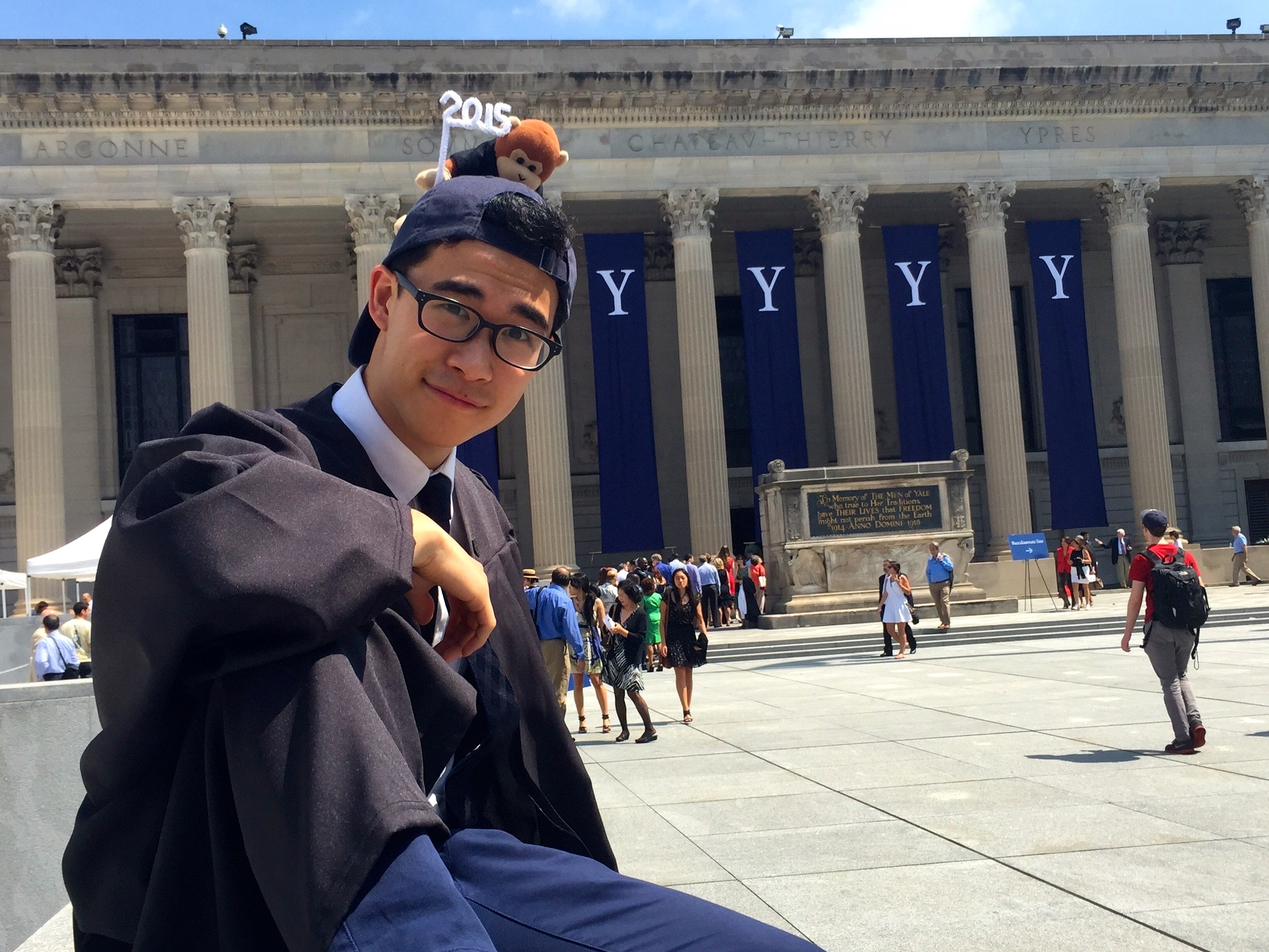
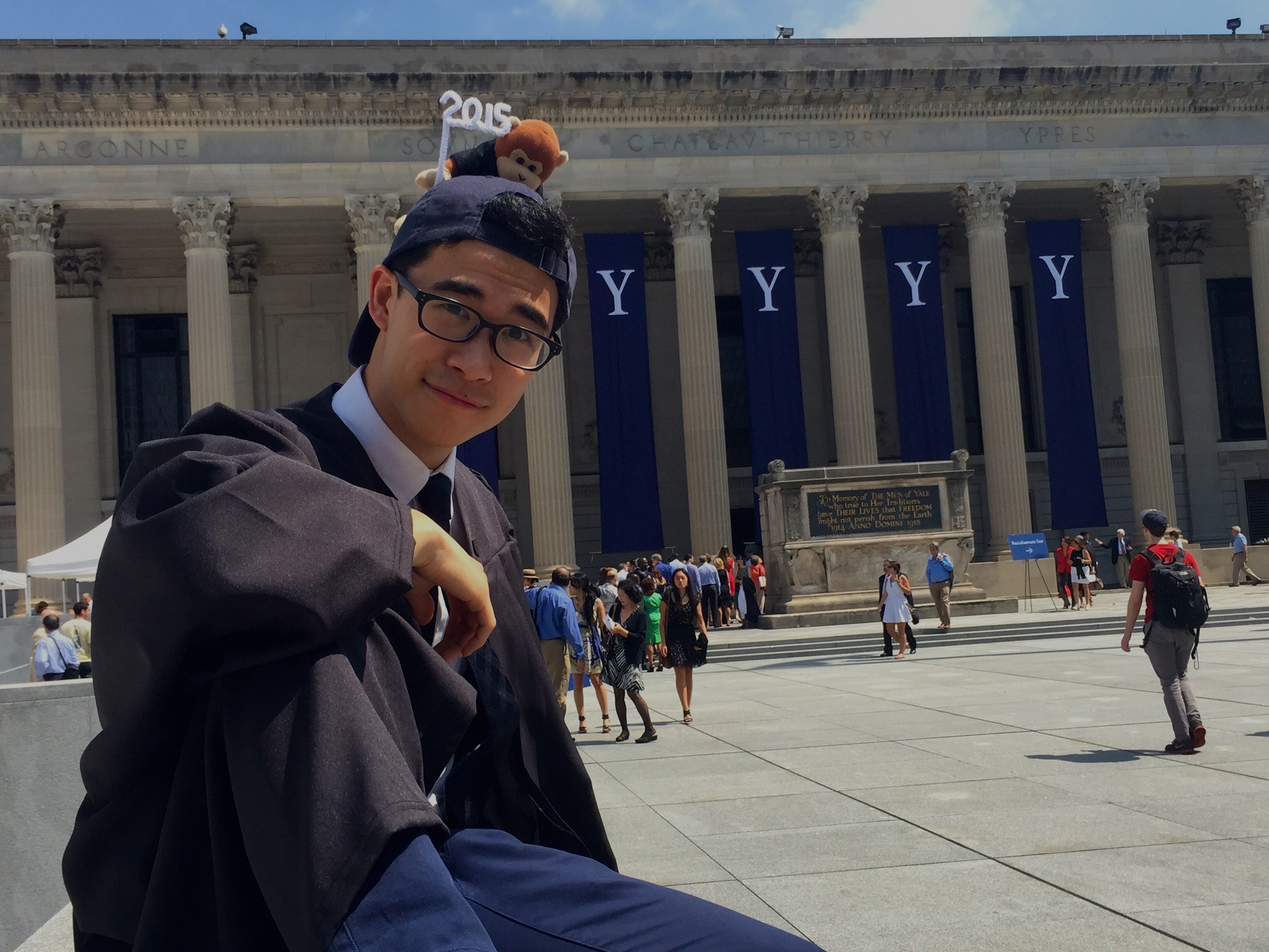
Added shading to pictures, made changes to contact and blog sections

diff --git a/public/css/style.css b/public/css/style.css
@@ -1,18 +1,49 @@
-html,body{ margin:0; padding:0; height:100%; width:100%; }
+html, body {
+  margin:0;
+  padding:0;
+  height:100%;
+  width:100%;
+  font-family: "Raleway";
+}
+
+.navbar {
+  background: #2b2b2b;
+  margin-bottom: 0px;
+  border-bottom: 0px;
+}
 
 #header {
   background: url('../img/mountains.jpg') center top no-repeat;
   background-size: 100% auto;
+  max-height: 720px;
   text-align: center;
   color: white;
   height: 100%;
   width: 100%;
-  overflow: hidden;
+  font-family: "Lato";
 }
 
 #header-text {
   position: relative;
   top: 40%;
+}
+
+#header-text h1 {
+  font-size: 72px;
+}
+
+#name {
+  color: #40a3ff;
+}
+
+#down-arrow {
+  height: 34px;
+  width: 34px;
+  display: block;
+  position: absolute;
+  bottom: 10px;
+  left: 50%;
+  margin-left:-15px;
 }
 
 #profile-pic {
@@ -32,8 +63,22 @@ html,body{ margin:0; padding:0; height:100%; width:100%; }
   font-style: italic;
 }
 
-#research-demo {
-  width: 375px;
+#contact-info {
+  text-align: left;
+  width: 20%;
+  margin-left: auto;
+  margin-right: auto;
+}
+
+#contact-info span {
+  font-size: 24px;
+  margin-right: 10px;
+}
+
+#skills {
+  text-align: center;
+  background-color: lightgrey;
+  min-height: 100px;
 }
 
 #hr {
@@ -43,6 +88,7 @@ html,body{ margin:0; padding:0; height:100%; width:100%; }
 .section {
   padding-top: 50px;
   text-align: center;
+  margin-bottom: 50px;
 }
 
 .section hr {
@@ -60,34 +106,36 @@ html,body{ margin:0; padding:0; height:100%; width:100%; }
 }
 
 #divider2 {
-  background: url('../img/seattle2.jpg') center no-repeat;
-  background-size: 100% auto;
-}
-
-#divider3 {
-  background: url('../img/seattle1.jpg') center no-repeat;
+  background: url('../img/seattle.jpg') center no-repeat;
   background-size: 100% auto;
 }
 
 .divider {
   text-align: center;
   color: white;
-  min-height: 375px;
+  height: 375px;
 }
 
 .divider-text {
+  font-family: "Lato";
   position: relative;
-  top: 150px;
+  top: 125px;
+}
+
+.divider-text h1 {
+  font-size: 52px;
+}
+
+.divider-text span {
+  font-size: 64px;
+}
+
+h1, h2, h3, h4 {
+  font-weight: 300;
 }
 
 p {
   font-size: 16px;
-}
-
-.navbar {
-  background: #2b2b2b;
-  margin-bottom: 0px;
-  border-bottom: 0px;
 }
 
 footer {
@@ -95,11 +143,4 @@ footer {
   color: grey;
   padding-top: 10px;
   text-align: center;
-}
-
-footer span {
-  font-size: 24px;
-  margin-left: 5px;
-  margin-right: 5px;
-  padding-bottom: 7px;
 }
